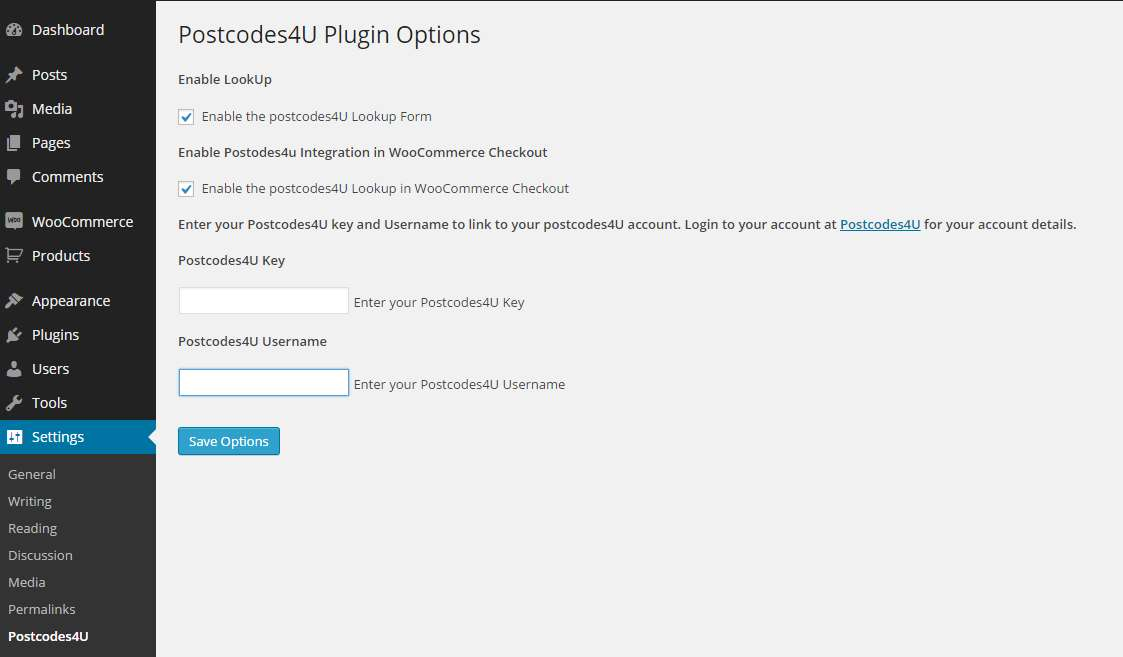
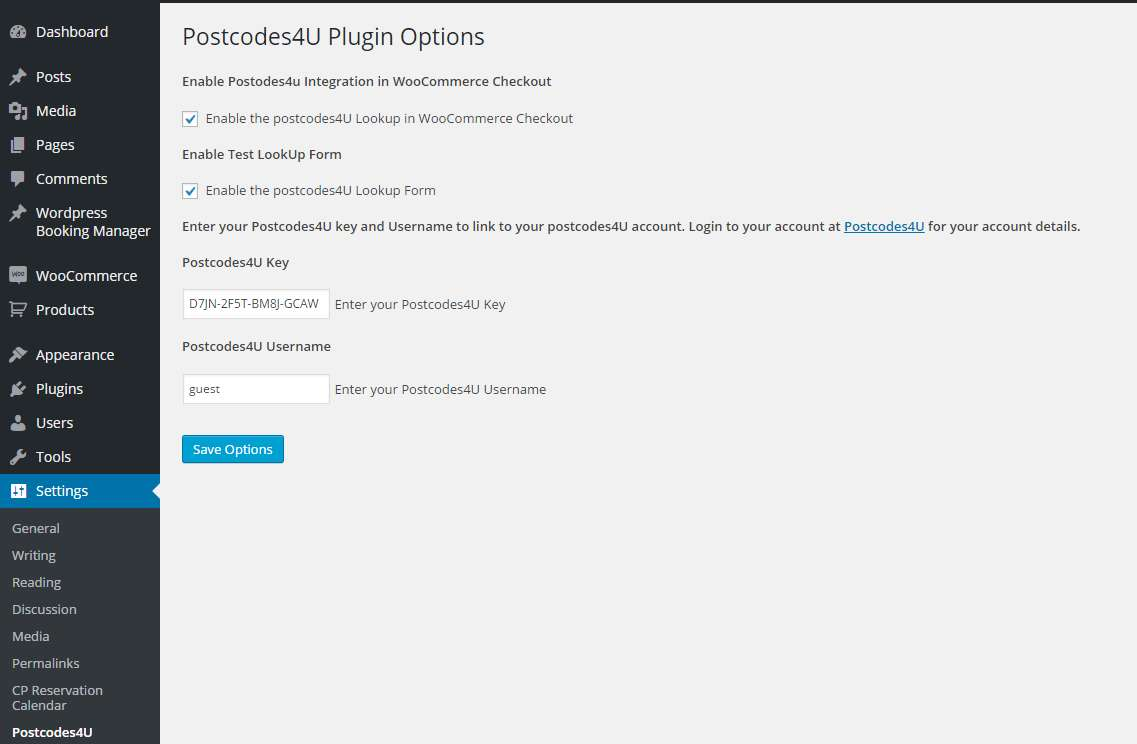
v1.2.1 Https and Admin Page Updates
git-svn-id: https://plugins.svn.wordpress.org/postcodes4u-address-finder/trunk@1213430 b8457f37-d9ea-0310-8a92-e5e31aec5664

diff --git a/includes/js/pc4u.js b/includes/js/pc4u.js
@@ -84,7 +84,13 @@ function pc4uPostcodeSearchBegin() {
             var SearchTerm = document.getElementById(pc4uPostcodeFieldName).value;
 
             //Build the url
-            strUrl = "http://services.3xsoftware.co.uk/Search/ByPostcode/json?";
+            //  Check if HTTPS
+            if (window.location.protocol == "'https:") {
+                strUrl = "https://";
+            } else {
+                strUrl = "http://";
+            }
+            strUrl += "services.3xsoftware.co.uk/Search/ByPostcode/json?";
             strUrl += "username=" + encodeURI(pc4uuser);
             strUrl += "&key=" + encodeURI(pc4ukey);
             strUrl += "&postcode=" + encodeURI(SearchTerm);
@@ -166,9 +172,6 @@ function Pc4uSearchEnd(response) {
 }
 
 
-
-
-
 // ==================================================
 // Postcode4u Lookup Common 'Select Address Process'
 //  Return Selected Address Details
@@ -193,7 +196,13 @@ function Pc4uSearchIdBegin(lookupcode) {
     var user = document.getElementById("postcodes4uuser").innerHTML;
 
     //Build the url
-    strUrl = "http://services.3xsoftware.co.uk/search/byid/json?";
+    //  Check if HTTPS
+    if (window.location.protocol == "'https:") {
+        strUrl = "https://services.3xsoftware.co.uk";
+    } else {
+        strUrl = "http://services.3xsoftware.co.uk";
+    }
+    strUrl += "/search/byid/json?";
     strUrl += "username=" + encodeURI(user);
     strUrl += "&key=" + encodeURI(key);
     strUrl += "&id=" + encodeURI(Id);

diff --git a/includes/admin-page.php b/includes/admin-page.php
@@ -6,41 +6,66 @@ global $pc4u_options;
 	ob_start(); ?>
 	<div class="wrap">
 		<h2>Postcodes4U Plugin Options</h2>
-		<form method="post" action="options.php">
+        <form method="post" action="options.php">
  
-			<?php settings_fields('pc4u_settings_group'); ?>
+            
+        
+			<?php settings_fields('pc4u_settings_group');
+            
+            // Process Current/Default settings
+            
+            $currentSettings = get_option('pc4u_settings');
+            $currentPc4uEnable = '0';
+            $currentWoocommerce = '0';
+            $currentPc4uUserName = '';
+            $currentPc4uUserKey = '';
+            
+            if(isset($currentSettings['enable']) ) {
+                $currentPc4uEnable = $currentSettings['enable'] ;
+            }
+              if(isset($currentSettings['woointegrate']) ) {
+                // Only Allow If Postcode Integration Enabled Commerce Integration Enabled
+                if($currentPc4uEnable == '1') {
+                    $currentWoocommerce = $currentSettings['woointegrate'] ;
+                }
+            }
+           
+            if(isset($currentSettings['user_name']) ) {
+                $currentPc4uUserName = $currentSettings['user_name'] ;
+            }
+            if(isset($currentSettings['user_key']) ) {
+                $currentPc4uUserKey = $currentSettings['user_key'] ;
+            }
+            ?>
 
-			<h4><?php _e('Enable LookUp', 'pc4u_domain'); ?></h4>
+               <h4><?php _e('Enable Postodes4u Integration in WooCommerce Checkout', 'pc4u_domain'); ?></h4>
 				<p>
-					<input id="pc4u_settings[enable]" name="pc4u_settings[enable]" type="checkbox" value="1" <?php checked('1', $pc4u_options['enable']); ?> />
-					<label class="description" for="pc4u_settings[enable]"><?php _e('Enable the postcodes4U Lookup Form', 'pc4u_domain'); ?></label>
-				
+					<input id="pc4u_settings[woointegrate]" name="pc4u_settings[woointegrate]" type="checkbox" value="1" <?php checked('1', $currentWoocommerce); ?> />
+					<label class="description" for="pc4u_settings[woointegrate]"><?php _e('Enable the postcodes4U Lookup in WooCommerce Checkout', 'pc4u_domain'); ?></label>				
 				</p>
-
-            <h4><?php _e('Enable Postodes4u Integration in WooCommerce Checkout', 'pc4u_domain'); ?></h4>
+            
+			<h4><?php _e('Enable Test LookUp Form', 'pc4u_domain'); ?></h4>
 				<p>
-					<input id="pc4u_settings[woointegrate]" name="pc4u_settings[woointegrate]" type="checkbox" value="1" <?php checked('1', $pc4u_options['woointegrate']); ?> />
-					<label class="description" for="pc4u_settings[woointegrate]"><?php _e('Enable the postcodes4U Lookup in WooCommerce Checkout', 'pc4u_domain'); ?></label>
-				
+					<input id="pc4u_settings[enable]" name="pc4u_settings[enable]" type="checkbox" value="1" <?php checked('1',$currentPc4uEnable); ?> />
+					<label class="description" for="pc4u_settings[enable]"><?php _e('Enable the postcodes4U Lookup Form', 'pc4u_domain'); ?></label>				
 				</p>
-
-			<h4>Enter your Postcodes4U key and Username to link to your postcodes4U account. Login to your account at <a href="http://www.postcodes4u.co.uk"  target="_blank">Postcodes4U</a> for your account details.</h4>
+           	                                     
+                <h4>Enter your Postcodes4U key and Username to link to your postcodes4U account. Login to your account at <a href="http://www.postcodes4u.co.uk"  target="_blank">Postcodes4U</a> for your account details.</h4>
 			
 			<h4><?php _e('Postcodes4U Key', 'pc4u_domain'); ?></h4>
 			
 				<p>
-					<input id="pc4u_settings[user_key]" name="pc4u_settings[user_key]" type="text" value="<?php echo $pc4u_options['user_key']; ?>"/>
+					<input id="pc4u_settings[user_key]" name="pc4u_settings[user_key]" type="text" value="<?php echo $currentPc4uUserKey; ?>"/>
 					<label class="description" for="pc4u_settings[user_key]"><?php _e('Enter your Postcodes4U Key', 'pc4u_domain'); ?></label>
 				
 				</p>                     
  
 			<h4><?php _e('Postcodes4U Username', 'pc4u_domain'); ?></h4>
 				<p>
-					<input id="pc4u_settings[user_name]" name="pc4u_settings[user_name]" type="text" value="<?php echo $pc4u_options['user_name']; ?>"/>
+					<input id="pc4u_settings[user_name]" name="pc4u_settings[user_name]" type="text" value="<?php echo $currentPc4uUserName; ?>"/>
 					<label class="description" for="pc4u_settings[user_name]"><?php _e('Enter your Postcodes4U Username', 'pc4u_domain'); ?></label>
 				
 				</p>		
-
 					
  
 				<p class="submit">
@@ -53,6 +78,18 @@ global $pc4u_options;
 	echo ob_get_clean();
 }
 
+function pc4u_validate_settings( $pc4uInput ) {
+    // If No User Details Then mark Postcodes4u as not enabled
+    if( trim($pc4uInput['user_name']) === '' || trim($pc4uInput['user_key'] === '')) {
+        // NO User Details - DISABLE POSTCODES 4u
+         $pc4uInput['enable'] = '0';
+         $pc4uInput['woointegrate'] = '0';
+         add_settings_error( 'pc4u_settings',  esc_attr( 'settings_updated' ),
+                                'You cannot enable the Postcodes4u Postcode Lookup without entering a Username and Key', 'pc4u_domain' );      
+     }
+     return $pc4uInput;
+}
+
 function pc4u_add_options_link() {
 	add_options_page('PC4U Plugin Options', 'Postcodes4U', 'manage_options', 'pc4u-options', 'pc4u_options_page');
 }
@@ -60,7 +97,7 @@ add_action('admin_menu', 'pc4u_add_options_link');
 
 function pc4u_register_settings() {
 
-	register_setting('pc4u_settings_group', 'pc4u_settings');
+	register_setting('pc4u_settings_group', 'pc4u_settings', 'pc4u_validate_settings');
 }
 add_action('admin_init', 'pc4u_register_settings');
 

diff --git a/postcodes4U.php b/postcodes4U.php
@@ -5,7 +5,7 @@ Plugin URI: http://plugins.3xsoftware.co.uk
 Description: Postcode Lookup 
 Author: 3X Software Ltd
 Author URI: http://3xsoftware.co.uk
-Version: 1.2
+Version: 1.2.1
 */
 
 /***************************
